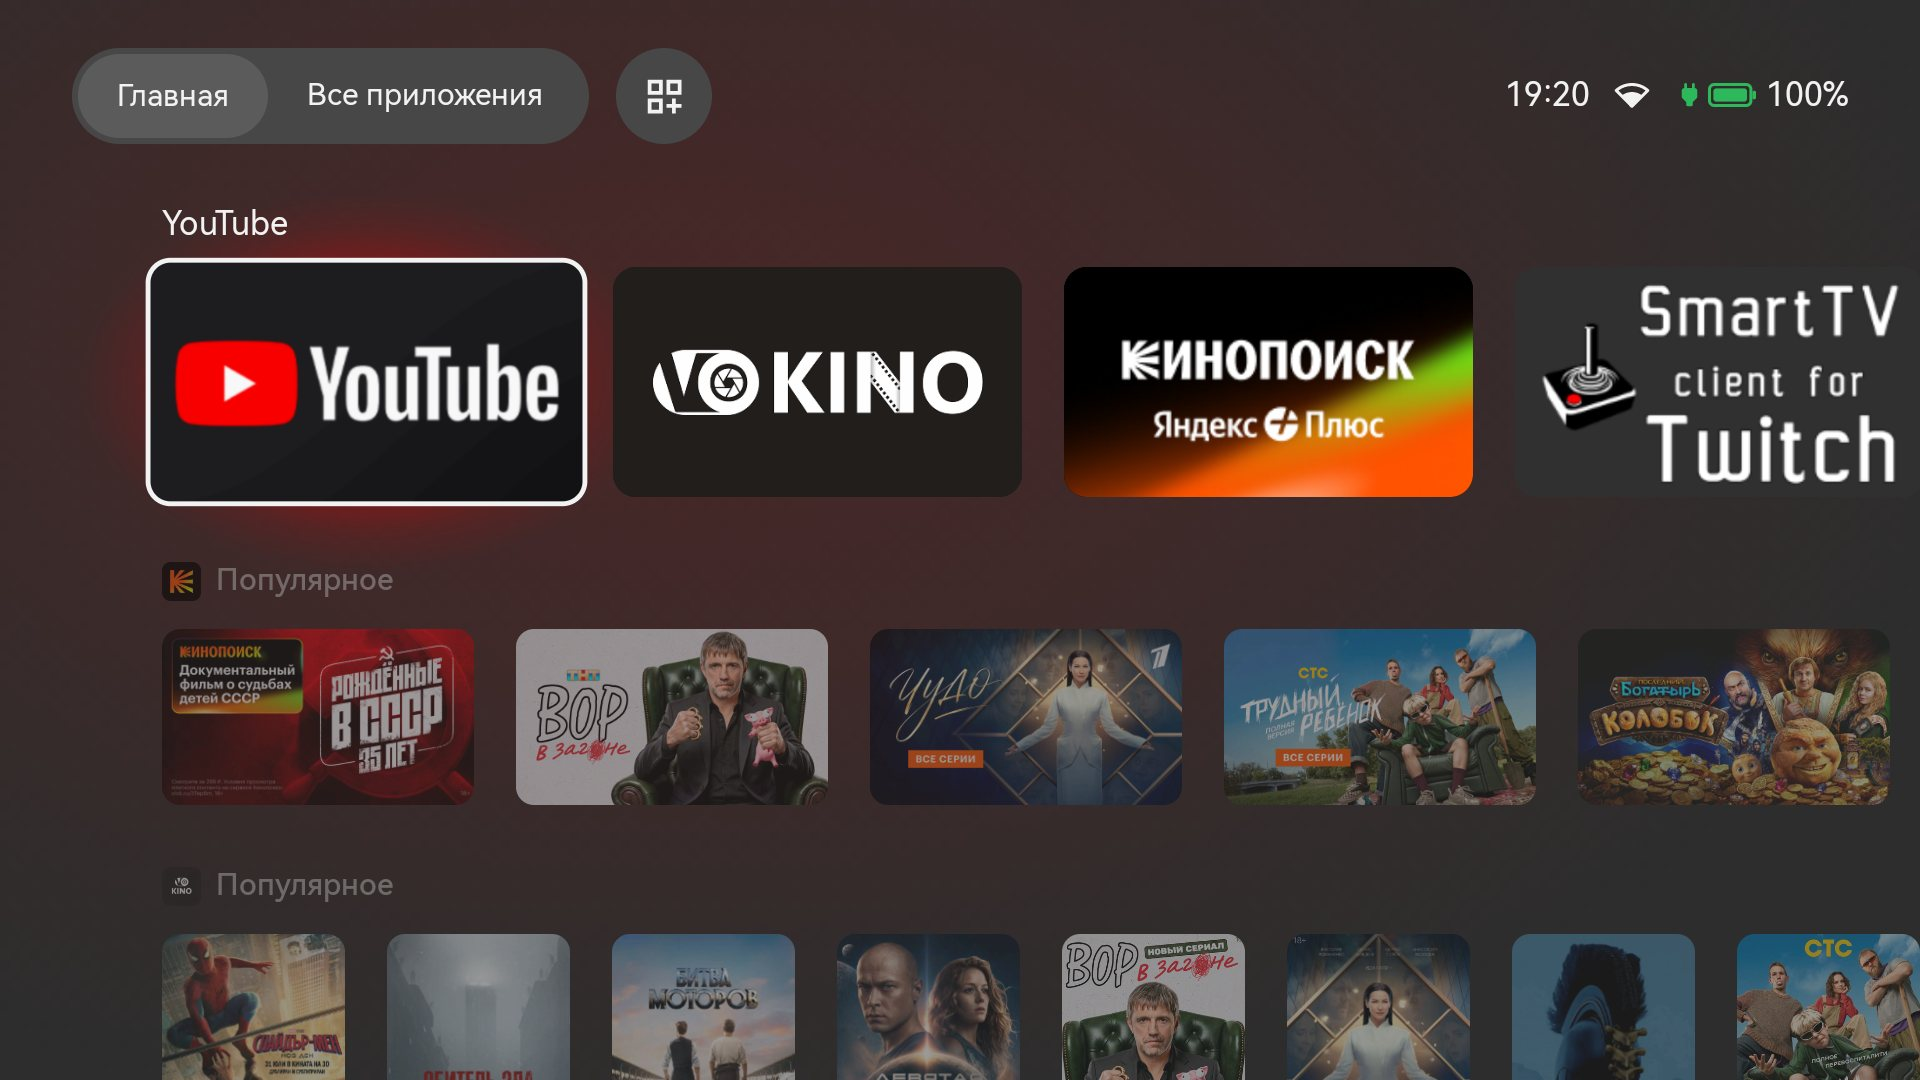
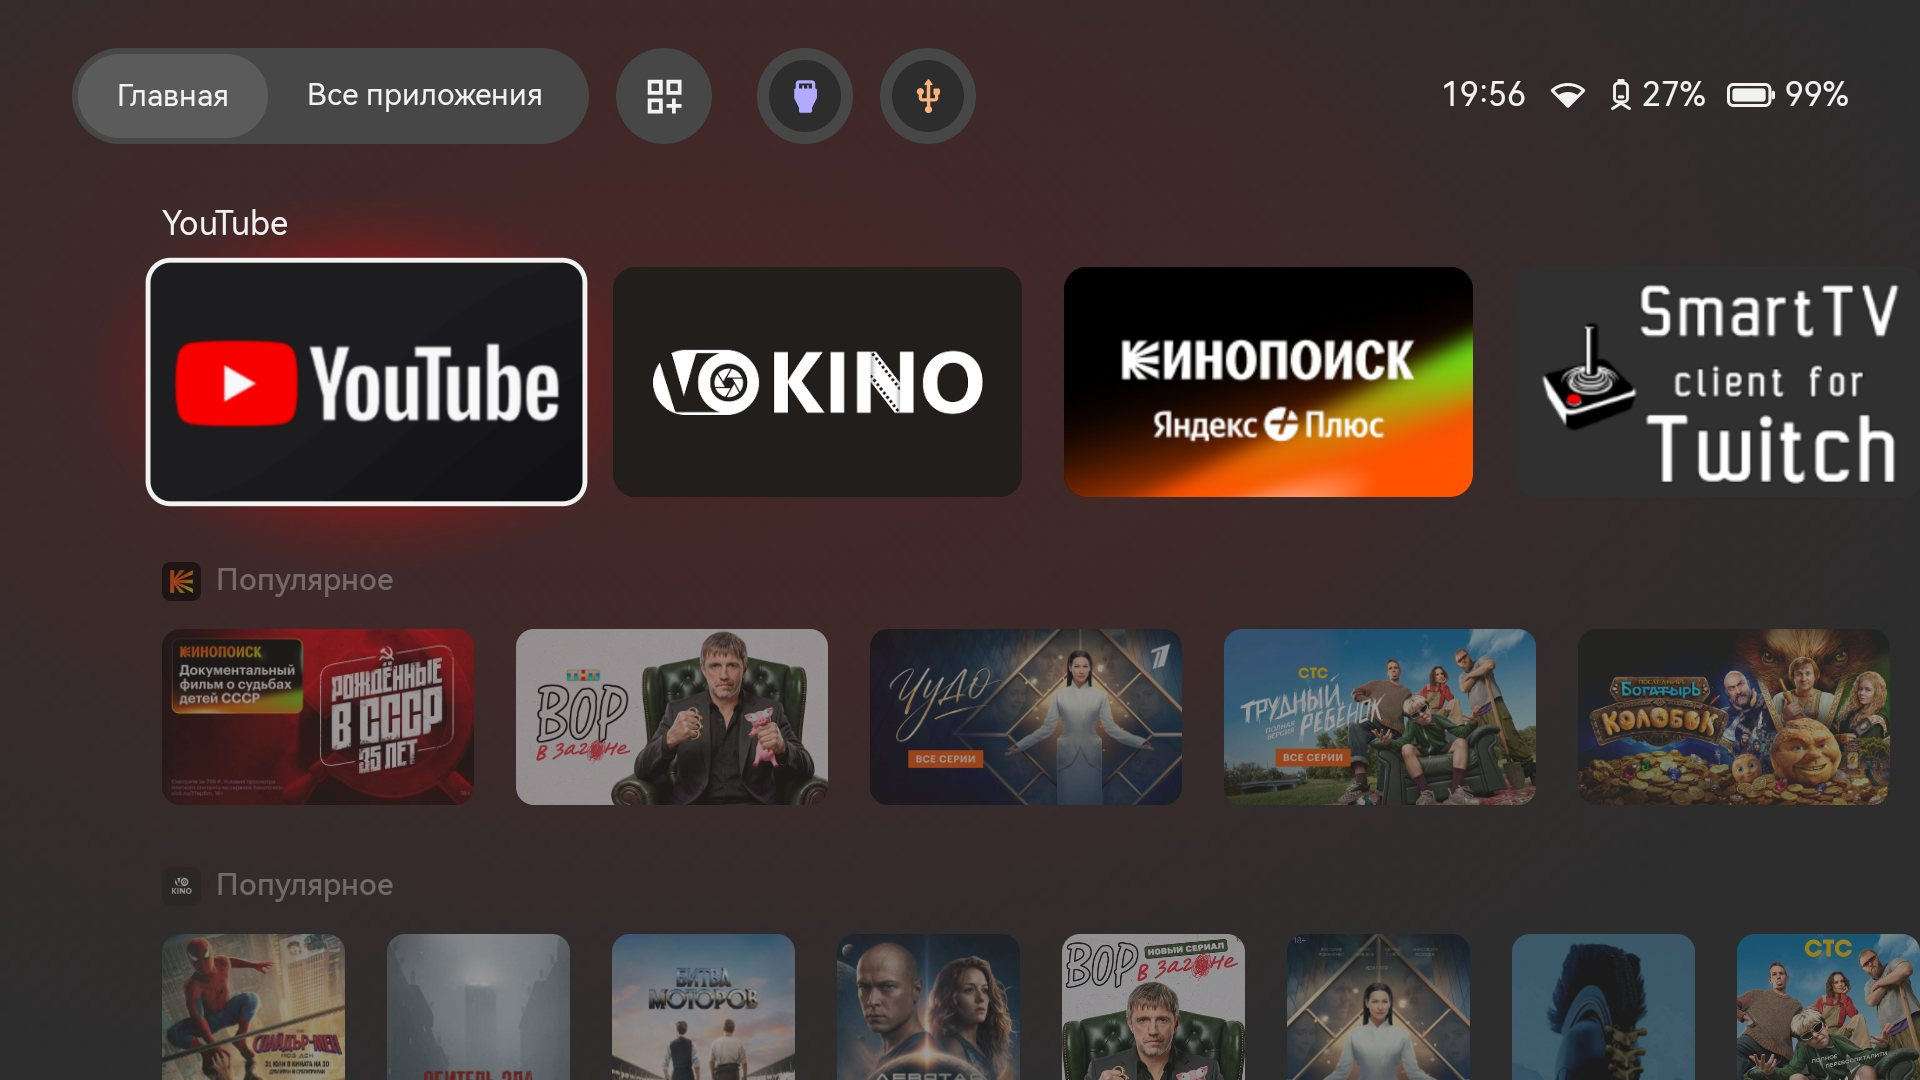
Battery time left at once, stand plus projector; russifier in the install guide
XGIMI's API reports levels only, so drain rates are remembered (projector and stand, Eco on
and off), shown at once and refined by the live reading over 15 minutes. On the stand the
time left is the stand's charge plus the projector's at the present drain (both hold
20,000 mAh). Rates are kept within 50 s to 4 min a percent. Adb hooks battery_get and
demo_devices (pretend USB/HDMI for screenshots). The install guide gets a step for the
XGIMI russifier (translation only). Home and panel screenshots with the stand.

Changed region(s): [[0.375, 0.0306, 0.5312, 0.1528], [0.75, 0.0611, 0.9375, 0.1222]]

diff --git a/app/src/main/java/com/home/tiles/Battery.kt b/app/src/main/java/com/home/tiles/Battery.kt
@@ -68,8 +68,7 @@ private fun standState(type: Int?): StandState = when (type) {
 
 /**
  * [minutesLeft]: on battery or the stand, how long the projector runs at the recent rate (on the
- * stand: the stand's charge, then its own); null until known. [minutesAtLeast]: on the stand before
- * the projector's own battery has been timed, so only the stand's part is counted. [stand]: the
+ * stand: the stand's charge, then its own); null off battery. [stand]: the
  * battery stand's state; [standLevel]: its charge, null when it isn't attached or doesn't report it
  * (while it charges); [standCharging]: its own charger is in.
  */
@@ -79,7 +78,6 @@ class BatteryInfo(
     val minutesLeft: Int?,
     val stand: StandState = StandState.NONE,
     val standLevel: Int? = null,
-    val minutesAtLeast: Boolean = false,
 ) {
     val standCharging get() = stand == StandState.CHARGING
 }
@@ -132,16 +130,48 @@ object BatteryMonitor {
     private val warned = mutableSetOf<Int>()
     private val standWarned = mutableSetOf<Int>()
     private var hadStand: Boolean? = null
-    // How long one percent of the projector's own battery lasts, timed whenever it runs on it and
-    // kept: on the stand the projector goes on with its own charge once the stand's runs out.
-    private var ownMsPerPercent: Long? = null
+    // The level in use at the last sample: a drop of a percent is when a drain rate is learned.
+    private var lastLevel: Int? = null
 
     @Synchronized
     fun start(context: Context) {
         if (appContext != null) return
         appContext = context.applicationContext
-        ownMsPerPercent = prefs(context).getLong(KEY_OWN_RATE, 0L).takeIf { it > 0 }
         executor.scheduleWithFixedDelay({ runCatching { sample() } }, 0, POLL_S, TimeUnit.SECONDS)
+    }
+
+    /**
+     * How long a percent lasts, remembered for the projector's own battery and for the stand, and
+     * for each with Eco on and off (the firmware turns Eco on by itself on the stand, and it
+     * changes the drain): the time left shows as soon as the projector runs on either, and the
+     * live reading refines it. The other Eco state's rate stands in while one isn't known yet.
+     */
+    private fun remembered(source: String, eco: Boolean): Long? {
+        val prefs = appContext?.let(::prefs) ?: return null
+        val rate = prefs.getLong("$KEY_RATE$source:$eco", 0L).takeIf { it > 0 }
+            ?: prefs.getLong("$KEY_RATE$source:${!eco}", 0L).takeIf { it > 0 }
+            // The Play 6's battery and the Power Base Stand are both 20,000 mAh: a percent of one
+            // lasts about as long as a percent of the other, so each stands in for the other.
+            ?: prefs.getLong("$KEY_RATE${other(source)}:$eco", 0L).takeIf { it > 0 }
+            ?: prefs.getLong("$KEY_RATE${other(source)}:${!eco}", 0L).takeIf { it > 0 }
+            ?: STAND_SEED_MS
+        return plausibleRate(rate)
+    }
+
+    /** The remembered rates, for the adb hook (--ez battery_get true). */
+    fun describeRates(): String {
+        val prefs = appContext?.let(::prefs) ?: return "not started"
+        return listOf(OWN, STAND).flatMap { s -> listOf(true, false).map { e -> "$s eco=$e: ${prefs.getLong("$KEY_RATE$s:$e", 0L) / 1000}s/%" } }
+            .joinToString("; ") + " | now ${info?.minutesLeft} min"
+    }
+
+    private fun other(source: String) = if (source == OWN) STAND else OWN
+
+    private fun learn(source: String, eco: Boolean, measured: Long) {
+        val prefs = appContext?.let(::prefs) ?: return
+        val key = "$KEY_RATE$source:$eco"
+        val old = prefs.getLong(key, 0L).takeIf { it > 0 }
+        prefs.edit().putLong(key, learnRate(old, plausibleRate(measured))).apply()
     }
 
     private fun sample() {
@@ -179,23 +209,26 @@ object BatteryMonitor {
             else -> PowerSource.CHARGING
         }
         // Two percents at least, so one step of the level doesn't make a wild guess.
-        val msPerPercent = if (span >= MIN_TREND_MS && change <= -2) span / -change else null
-        if (power == PowerSource.BATTERY && msPerPercent != null && msPerPercent != ownMsPerPercent) {
-            ownMsPerPercent = msPerPercent
-            appContext?.let { prefs(it).edit().putLong(KEY_OWN_RATE, msPerPercent).apply() }
-        }
-        val own = ownMsPerPercent
-        val minutesLeft = when {
-            msPerPercent == null -> null
-            power == PowerSource.BATTERY -> (level * msPerPercent / 60_000).toInt()
-            // The stand's charge, then the projector's own (it stays full while the stand carries it).
-            power == PowerSource.STAND -> ((level * msPerPercent + reading.level * (own ?: 0L)) / 60_000).toInt()
+        val live = if (span >= MIN_TREND_MS && change <= -2) span / -change else null
+        val drainSource = when (power) {
+            PowerSource.BATTERY -> OWN
+            PowerSource.STAND -> STAND
             else -> null
         }
-        state.value = BatteryInfo(
-            reading.level, power, minutesLeft, reading.stand, reading.standLevel,
-            minutesAtLeast = power == PowerSource.STAND && own == null,
-        )
+        val eco = runCatching { Eco.enabled() }.getOrNull() == true
+        // Each percent the charge in use drops, what the live reading says is learned.
+        if (drainSource != null && live != null && lastLevel != null && level < lastLevel!!) learn(drainSource, eco, live)
+        lastLevel = level
+        val rate = drainSource?.let { blendRate(remembered(it, eco), live, span) }
+        val minutesLeft = when {
+            rate == null -> null
+            power == PowerSource.BATTERY -> (level * rate / 60_000).toInt()
+            // The stand's charge, then the projector's own (it stays full while the stand carries it),
+            // both at the drain of the present use: the two hold the same 20,000 mAh, and what is playing
+            // now goes on playing once the stand runs out.
+            else -> ((level + reading.level) * rate / 60_000).toInt()
+        }
+        state.value = BatteryInfo(reading.level, power, minutesLeft, reading.stand, reading.standLevel)
         noteStand(reading)
         warnIfLow(reading)
     }
@@ -401,11 +434,37 @@ private fun DrawScope.drawBattery(percent: Int, tint: Color, scale: Float, at: O
 @Composable
 fun batteryTimeLeft(): String? {
     BatteryMonitor.start(LocalContext.current)
-    val info = BatteryMonitor.info ?: return null
-    // Only the stand's part known yet: "> 1 ч 10 мин".
-    return info.minutesLeft?.let(::timeLeft)?.let { if (info.minutesAtLeast) it.replaceFirst("≈", ">") else it }
+    return BatteryMonitor.info?.minutesLeft?.let(::timeLeft)
 }
 
-private const val KEY_OWN_RATE = "ownMsPerPercent"
+private const val KEY_RATE = "msPerPercent:"
+private const val OWN = "own"
+private const val STAND = "stand"
+// Until either battery has been timed: measured on this projector on the stand, 33% in 62 minutes.
+private const val STAND_SEED_MS = 112_000L
+// The live reading takes over from the remembered rate over this long.
+private const val BLEND_MS = 15 * 60_000L
+
+/**
+ * The rate to estimate with: the remembered one at first, the live one ([liveSpanMs] of readings
+ * behind it) taking over gradually, so the time left settles rather than jumps.
+ */
+internal fun blendRate(remembered: Long?, live: Long?, liveSpanMs: Long): Long? {
+    if (live == null) return remembered
+    if (remembered == null) return live
+    val w = (liveSpanMs.toDouble() / BLEND_MS).coerceIn(0.0, 1.0)
+    return (remembered * (1 - w) + live * w).toLong()
+}
+
+/**
+ * A rate kept within what this projector can do: the Play 6 runs about 2.5 h on its 20,000 mAh
+ * for video at full brightness (1.5 min a percent), longer when dimmer or Eco; a reading outside
+ * 50 s to 4 min a percent (about 1.4 to 6.7 h for a full charge) is a mismeasure, such as one
+ * taken while the charger was in for part of the time.
+ */
+internal fun plausibleRate(rate: Long): Long = rate.coerceIn(50_000L, 240_000L)
+
+/** A remembered rate moved a third of the way to a new measurement, so one odd session doesn't wipe it. */
+internal fun learnRate(old: Long?, measured: Long): Long = if (old == null) measured else (old * 2 + measured) / 3
 
 private fun prefs(context: Context) = context.getSharedPreferences("battery", Context.MODE_PRIVATE)

diff --git a/app/src/test/java/com/home/tiles/BatteryRateTest.kt b/app/src/test/java/com/home/tiles/BatteryRateTest.kt
@@ -1,0 +1,34 @@
+package com.home.tiles
+
+import org.junit.Assert.assertEquals
+import org.junit.Assert.assertNull
+import org.junit.Test
+
+class BatteryRateTest {
+    @Test
+    fun rememberedRateShowsAtOnce() {
+        assertEquals(100_000L, blendRate(100_000L, null, 0L))
+        assertNull(blendRate(null, null, 0L))
+    }
+
+    @Test
+    fun liveRateTakesOverGradually() {
+        // Halfway through the 15 minutes: halfway between the two.
+        assertEquals(150_000L, blendRate(100_000L, 200_000L, 7 * 60_000L + 30_000L))
+        assertEquals(200_000L, blendRate(100_000L, 200_000L, 20 * 60_000L))
+        assertEquals(200_000L, blendRate(null, 200_000L, 3 * 60_000L))
+    }
+
+    @Test
+    fun learningMovesAThirdOfTheWay() {
+        assertEquals(90_000L, learnRate(null, 90_000L))
+        assertEquals(110_000L, learnRate(120_000L, 90_000L))
+    }
+
+    @Test
+    fun mismeasuresAreKeptInRange() {
+        assertEquals(240_000L, plausibleRate(372_000L))
+        assertEquals(50_000L, plausibleRate(10_000L))
+        assertEquals(112_000L, plausibleRate(112_000L))
+    }
+}

diff --git a/app/src/main/java/com/home/tiles/TopNav.kt b/app/src/main/java/com/home/tiles/TopNav.kt
@@ -249,8 +249,12 @@ private fun NavIconButton(icon: ImageVector, description: String, onClick: () ->
 @Composable
 private fun ConnectedDevices(onGone: () -> Unit, crowded: Boolean, modifier: Modifier = Modifier) {
     val context = LocalContext.current
-    val drives by rememberUsbDrives()
-    val hdmi by rememberLiveHdmi()
+    val realDrives by rememberUsbDrives()
+    val realHdmi by rememberLiveHdmi()
+    // Pretend devices for screenshots, switched on only over adb (see DemoDevices).
+    val demo = DemoDevices.on.value
+    val drives = if (demo) realDrives + DemoDevices.drive else realDrives
+    val hdmi = if (demo) realHdmi + DemoDevices.hdmi else realHdmi
     val compact = crowded || drives.size + hdmi.size >= 2
     Row(horizontalArrangement = Arrangement.spacedBy(18.dp), modifier = modifier) {
         hdmi.forEach { key("hdmi:${it.id}") { HdmiChip(it, compact, onGone) { Xgimi.openInput(context, it) } } }

diff --git a/app/src/main/java/com/home/tiles/AdbCommandReceiver.kt b/app/src/main/java/com/home/tiles/AdbCommandReceiver.kt
@@ -43,6 +43,13 @@ class AdbCommandReceiver : BroadcastReceiver() {
             LauncherSettings.dark = intent.getBooleanExtra("dark", true)
             resultData = "ok"
         }
+        // --ez battery_get true: the remembered drain rates and the time left.
+        if (intent.hasExtra("battery_get")) { BatteryMonitor.start(context); resultData = BatteryMonitor.describeRates() }
+        // --ez demo_devices BOOL: a pretend USB drive and HDMI device in the top bar, for screenshots.
+        if (intent.hasExtra("demo_devices")) {
+            DemoDevices.on.value = intent.getBooleanExtra("demo_devices", false)
+            resultData = "ok"
+        }
         // --ez theme_follow true: the theme as XGIMI's «Стиль темы» again.
         if (intent.hasExtra("theme_follow")) {
             LauncherSettings.followXgimi = intent.getBooleanExtra("theme_follow", true)

diff --git a/app/src/main/java/com/home/tiles/HomeWidgets.kt b/app/src/main/java/com/home/tiles/HomeWidgets.kt
@@ -207,6 +207,16 @@ private fun MediaButton(icon: ImageVector, onClick: () -> Unit) {
 /** [totalBytes]: the drive's capacity, 0 when it can't be read. */
 class UsbDrive(val key: String, val label: String, val totalBytes: Long = 0)
 
+/**
+ * A pretend USB drive and HDMI device in the top bar, for screenshots without plugging anything
+ * in. Off unless switched on over adb: --ez demo_devices true (see AdbCommandReceiver).
+ */
+object DemoDevices {
+    val on = mutableStateOf(false)
+    val drive = UsbDrive("demo", "SanDisk", 64L * 1000 * 1000 * 1000)
+    val hdmi = Xgimi.Input("PlayStation 5", "demo", port = "HDMI 1")
+}
+
 @Composable
 fun rememberUsbDrives(): State<List<UsbDrive>> {
     val context = LocalContext.current

diff --git a/README.md b/README.md
@@ -172,7 +172,8 @@
 ## Установка
 
 Понадобятся: компьютер с Windows, флешка (FAT32) и проектор в той же Wi-Fi сети, что и компьютер.
-Около 15 минут.
+Около 20 минут. Коротко: включить на проекторе ADB (шаги 1–5), русифицировать меню XGIMI (шаг 6),
+поставить Beam (шаг 7).
 
 ### Шаг 1. Скачать на компьютер
 
@@ -230,7 +231,23 @@
 должна быть строка `192.168.1.50:5555   device` (не `offline` и не `unauthorized`). VPN на
 компьютере на это время выключите: иначе adb не достучится до проектора.
 
-### Шаг 6. Установить Beam
+### Шаг 6. Русифицировать меню XGIMI (рекомендуется)
+
+Сам Beam уже на русском, а настройки и панель XGIMI — нет. Русификатор переводит их:
+
+1. Скачайте на компьютер XGIMI-Russifier-…-Windows-Setup….zip из
+   [релизов русификатора](https://github.com/tonisaf/xgimi-play6-russifier/releases) и распакуйте
+   весь архив (XgimiInstaller.exe должен лежать рядом с папкой kit). ADB уже внутри.
+2. Запустите XgimiInstaller.exe, введите IP проектора (тот же, что в шаге 4).
+3. Выберите «Установить русификацию». **Отметьте только сам перевод** (и часовой пояс, если
+   нужно): лаунчер BEAM и модуль кнопок пульта в нём не ставьте — Beam из этой сборки и его кнопки
+   поставит следующий шаг.
+4. Нажмите «Установить» и дождитесь зелёного сообщения. Проектор сам перезагрузится (2–4 минуты):
+   не выключайте его и не закрывайте окно.
+
+Подробности и удаление — в START-HERE.txt внутри архива.
+
+### Шаг 7. Установить Beam
 
 Откройте папку `C:\beam` так же через PowerShell и выполните одной строкой:
 
@@ -289,7 +306,7 @@ powershell -ExecutionPolicy Bypass -File .\tools\restore.ps1 -Device 192.168.1.5
 релиз: `-Release v0.2`, без скачивания: `-NoDownload`. IP и путь к adb можно один раз вписать в
 `local.env` (`DEVICE=…`, `ADB=…`), и параметры `-Device` и `-Adb` не понадобятся.
 
-### Шаг 7. Проверить
+### Шаг 8. Проверить
 
 Нажмите «Домой»: должен открываться Beam. Короткое нажатие голосовой кнопки пульта открывает
 панель быстрых настроек. Четыре кнопки приложений на пульте назначаются в панели: «Кнопки пульта».

diff --git a/README.en.md b/README.en.md
@@ -228,7 +228,23 @@ A debugging request appears on the projector's screen: tick "Always allow" and p
 should contain the line `192.168.1.50:5555   device` (not `offline` and not `unauthorized`). Turn off
 any VPN on the computer for this: otherwise adb can't reach the projector.
 
-### Step 6. Install Beam
+### Step 6. Translate XGIMI's menus to Russian (recommended)
+
+Beam itself is already in Russian; XGIMI's settings and panel are not. The russifier translates them:
+
+1. Download XGIMI-Russifier-…-Windows-Setup….zip from the
+   [russifier's releases](https://github.com/tonisaf/xgimi-play6-russifier/releases) and unpack the
+   whole archive (XgimiInstaller.exe must sit next to the kit folder). ADB is included.
+2. Run XgimiInstaller.exe and enter the projector's IP (the one from step 4).
+3. Choose «Установить русификацию». **Tick only the translation itself** (and the time zone if you
+   want it): skip its BEAM launcher and remote-button module, the next step installs this build of
+   Beam and its buttons.
+4. Press «Установить» and wait for the green message. The projector restarts by itself (2–4
+   minutes): don't turn it off or close the window.
+
+Details and removal: START-HERE.txt inside the archive.
+
+### Step 7. Install Beam
 
 Open the `C:\beam` folder the same way through PowerShell and run, as one line:
 
@@ -288,7 +304,7 @@ too, or pass `-Apk`: the download is skipped then. Another release: `-Release v0
 all: `-NoDownload`. You can put the IP and the path to adb into `local.env` once (`DEVICE=…`, `ADB=…`),
 and then you won't need the `-Device` and `-Adb` parameters.
 
-### Step 7. Check
+### Step 8. Check
 
 Press "Home": Beam should open. A short press of the remote's voice button opens the quick settings
 panel. The four app buttons on the remote are assigned in the panel: "Remote buttons". Voice search:
